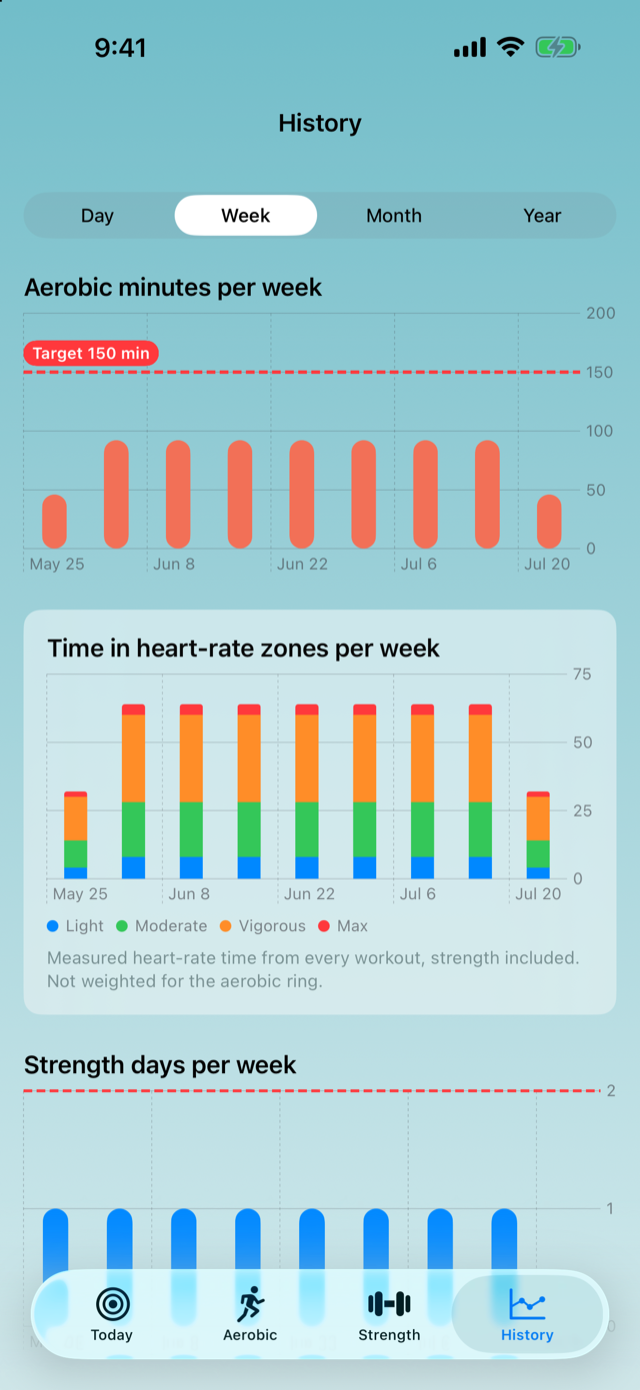
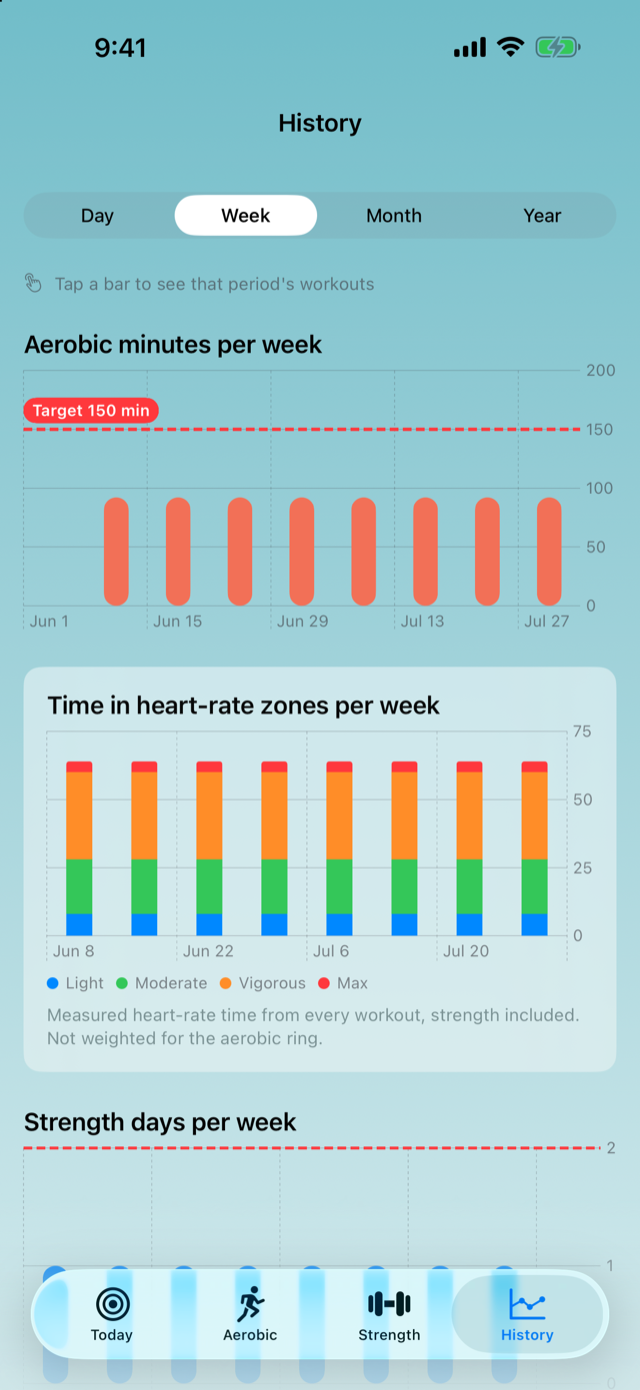
Update site for 1.2: quick actions, share/export, refreshed shots, policy sync
- Landing: add Home Screen quick actions and Share-your-week/CSV-export cards
- Support: add FAQs for quick actions, workout-counted, export/share; fix the
  now-inaccurate "sends no other notifications" line
- Privacy: disclose the workout-counted local notification and CSV export;
  bump Last updated to July 31, 2026 (mirrors the in-app policy)
- Refresh dashboard/exercises/history screenshots for the 1.2 UI

diff --git a/privacy/index.html b/privacy/index.html
@@ -33,7 +33,7 @@
 <main class="page">
   <div class="container">
     <h1>Privacy Policy</h1>
-    <p class="updated"><strong>Effective date:</strong> July 1, 2026 &nbsp;·&nbsp; <strong>Last updated:</strong> July 21, 2026</p>
+    <p class="updated"><strong>Effective date:</strong> July 1, 2026 &nbsp;·&nbsp; <strong>Last updated:</strong> July 31, 2026</p>
 
     <p>This Privacy Policy explains how the <strong>Physical</strong> app ("Physical," "the app," "we," "us") handles your information. Physical is a fitness app built around the 2018 U.S. Physical Activity Guidelines (HHS). It helps you track your weekly aerobic and strength activity against personalized targets.</p>
 
@@ -60,7 +60,10 @@
     <p>If you turn on <strong>Calendar sync</strong> in Settings, Physical adds a calendar event for each workout you log, using write-only access to your calendar. The app cannot read your existing calendar events. This feature is off by default, you control it with a toggle, and you can revoke calendar access at any time in <strong>Settings → Privacy &amp; Security → Calendars</strong>.</p>
 
     <h3>Notifications (optional)</h3>
-    <p>If you turn on the <strong>Weekly reminder</strong> in Settings, Physical schedules a local notification on your device to nudge you about your weekly progress. These notifications are generated entirely on your device; no information is sent to us or any third party. You can disable them with the toggle or in <strong>Settings → Notifications → Physical</strong>.</p>
+    <p>If you turn on the <strong>Weekly reminder</strong> in Settings, Physical schedules a local notification on your device to nudge you about your weekly progress. Physical can also show an optional <strong>"workout counted"</strong> notification when a workout you logged in another app is saved to Apple Health and counts toward your weekly goals. Both are generated entirely on your device from your own Health data; no information is sent to us or any third party. You can turn each off with its toggle in Settings, or disable them all in <strong>Settings → Notifications → Physical</strong>.</p>
+
+    <h3>Exporting your data (optional)</h3>
+    <p>You can export your logged workouts to a CSV file from Settings. The file is created on your device and handed to the iOS share sheet, where you choose what happens to it (save it to Files, email it to yourself, and so on). Physical does not upload it anywhere; where it goes from there is entirely your choice.</p>
 
     <h2>Information we do <em>not</em> collect</h2>
     <p>To be explicit, Physical does <strong>not</strong>:</p>

diff --git a/support/index.html b/support/index.html
@@ -58,7 +58,16 @@
     <p>Install the companion app on your paired Apple Watch. Start a workout on the Watch and Physical streams your live heart rate and intensity zones to your iPhone — including the Lock Screen and Dynamic Island Live Activity. Add the ring complication to your watch face for at-a-glance progress.</p>
 
     <h3>Can I turn the weekly reminder on or off?</h3>
-    <p>Yes. The optional weekly reminder is a local notification you control with a toggle in Settings, or in iOS <strong>Settings</strong> → <strong>Notifications</strong> → <strong>Physical</strong>. Physical sends no other notifications.</p>
+    <p>Yes. The optional weekly reminder is a local notification you control with a toggle in Settings, or in iOS <strong>Settings</strong> → <strong>Notifications</strong> → <strong>Physical</strong>. Physical also has an optional "workout counted" notification (below); both are local, and it sends nothing else.</p>
+
+    <h3>What is the "workout counted" notification?</h3>
+    <p>When you log a workout in another app and it saves to Apple Health, Physical can post a quick heads-up that it counted toward your weekly rings — so you don't have to open the app to know it landed. It's a local notification, off unless you turn it on, and you control it under <strong>Settings</strong> → <strong>Notifications</strong> in the app.</p>
+
+    <h3>How do I start a workout from the Home Screen?</h3>
+    <p>Touch and hold the Physical app icon on your Home Screen to get quick actions for starting a run, a walk, or a strength session, or jumping straight to this week — no need to open the app first.</p>
+
+    <h3>Can I export my data, or share my progress?</h3>
+    <p>Both. Export your logged workouts to a CSV file anytime from <strong>Settings</strong> (it opens the iOS share sheet, so you decide where it goes). You can also turn your weekly rings into a shareable image from the dashboard to post wherever you like. Nothing is sent to us either way.</p>
 
     <h3>I reinstalled Physical and my templates were gone. What happened?</h3>
     <p>As of the latest version, your saved strength templates and profile back up automatically to iCloud (if your device is signed in), so reinstalling the app or setting up a new device restores them. If you reinstalled an older version, or aren't signed into iCloud, those local-only items don't carry over. Make sure iCloud is on in iOS <strong>Settings</strong> → <strong>[your name]</strong> → <strong>iCloud</strong>.</p>

diff --git a/index.html b/index.html
@@ -73,6 +73,11 @@
         <p>"Hey Siri, let's get Physical." Start a workout or a saved routine by voice, and find them in Shortcuts and Spotlight — no tapping required.</p>
       </div>
       <div class="card">
+        <div class="ic" aria-hidden="true">⚡</div>
+        <h3>Start from the Home Screen</h3>
+        <p>Touch and hold the app icon for quick actions — jump straight into a run, a walk, or a strength session without opening the app first.</p>
+      </div>
+      <div class="card">
         <div class="ic" aria-hidden="true">🏁</div>
         <h3>Set a workout goal</h3>
         <p>Aim for a time, a calorie burn, or a distance. Your Apple Watch buzzes at the halfway point and the finish, so you can stop watching the numbers.</p>
@@ -96,6 +101,11 @@
         <div class="ic" aria-hidden="true">☁</div>
         <h3>Backs up to iCloud</h3>
         <p>Your saved strength templates and profile back up to your iCloud account, so they survive a reinstall and stay in sync across your devices.</p>
+      </div>
+      <div class="card">
+        <div class="ic" aria-hidden="true">📤</div>
+        <h3>Share your week</h3>
+        <p>Turn your two rings into a clean image you can post anywhere — and export your logged workouts to CSV anytime, so your data is always yours.</p>
       </div>
       <div class="card">
         <div class="ic" aria-hidden="true">🔒</div>
